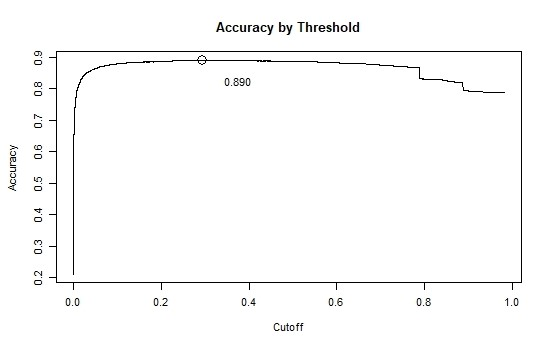
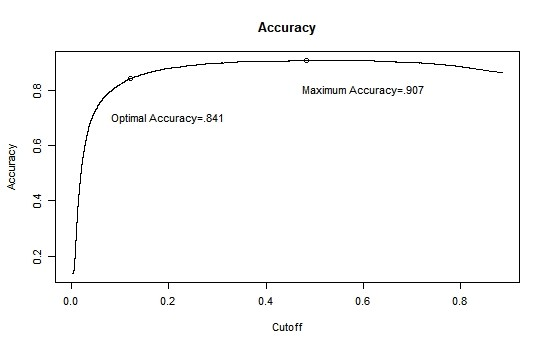
update

diff --git a/_posts/2019-12-07-customerchurn.md b/_posts/2019-12-07-customerchurn.md
@@ -148,7 +148,7 @@ We are more interested in *maximizing true positives and accepting a larger numb
 
 So how do we find the "right" combination of true positives and false positives?
 
-The ROC Curve represents the universe of confusion matrices.  Each point on the curve represents the trade off between true positives and false positives for a specific threshold.  The threshold, or "cutoff", sets the probability above which a model classifies as positive and below which the model classifies as negative.  Normally, with a balance data set (approximately equal positives and negatives) the threshold is set to 0.5.  
+The ROC Curve represents the universe of confusion matrices.  Each point on the curve represents the trade off between true positives and false positives for a specific threshold.  The threshold, or "cutoff", sets the probability above which a model classifies as positive and below which the model classifies as negative.  Normally, with a balance data set (approximately equal positives and negatives) the threshold is set to 0.4817.  
 
 The area under the ROC Curve (AUC) is also a model performance metric.  As an aside it is worth noting the AUC of our final model is approximately 0.92.  It's a good model.
 
@@ -160,15 +160,11 @@ So how is the "best" model determined?  The ROC curve provides the best "univers
 
 We find the optimal threshold / point on the ROC curve in this case by balancing sensitivity and specificity.  Stated a bit differently, we want to find the point on the curve where rate-of-change in the sensitivity (true positive rate) equals the rate-of-change in 1 - specificity (false positive rate).  This gives us a "balance" between true positives and false positives.  This point occurs where the threshold value = 0.1204.
 
-
-
-
-However, AUC alone does not help address our optimal solution for the business problem at hand.  The ROC curve summarizes the universe of confusion matrices associated with this model.  A confusion matrix summarizes model performance at a given *theshold* (point on the ROC curve) in terms of true and false positives and negatives.  
-
-I need to find the confusion matrix associated with a point the ROC curve that gives us a "good balance" of true positives and false positives.  
+<img src="{{site.url}}{{ site.baseurl }}/images/churn/ROC_optimal.jpeg" alt="ROC curve">
 
 
 The maximum accuracy the model achieves is approximately 91% at a threshold of .481.
+
 
 <img src="{{site.url}}{{ site.baseurl }}/images/churn/AccuracyPlot.jpeg" alt="Accuracy Plot">
 
